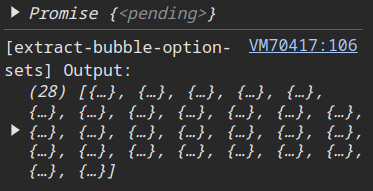
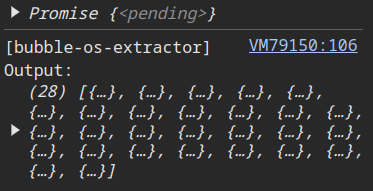
update script name in console output

Changed region(s): [[0.0295, 0.2094, 0.6193, 0.3141], [0.0, 0.3403, 0.3539, 0.4188], [0.7373, 0.1832, 0.8552, 0.288]]

diff --git a/index.js b/index.js
@@ -103,7 +103,7 @@ async function delay(duration) {
 async function displayOptionSets() {
   const optionSets = await getOptionSets();
 
-  console.log("[extract-bubble-option-sets] Output:", optionSets);
+  console.log("[bubble-os-extractor] Output:", optionSets);
 }
 
 displayOptionSets();

diff --git a/README.md b/README.md
@@ -13,7 +13,7 @@ It does not include the options' attribute values.
 3. Open the browser console, paste the copied code and press Enter.
 4. Wait for the script to finish executing and copy the output from the console, which should appear as in the image below:
 
-![After executing the script, this is the expected output: "[extract-bubble-option-sets] Output:" followed by the array containing the option sets.](images/console-output.png)
+![After executing the script, this is the expected output: "[bubble-os-extractor] Output:" followed by the array containing the option sets.](images/console-output.png)
 
 ## Output Format
 
